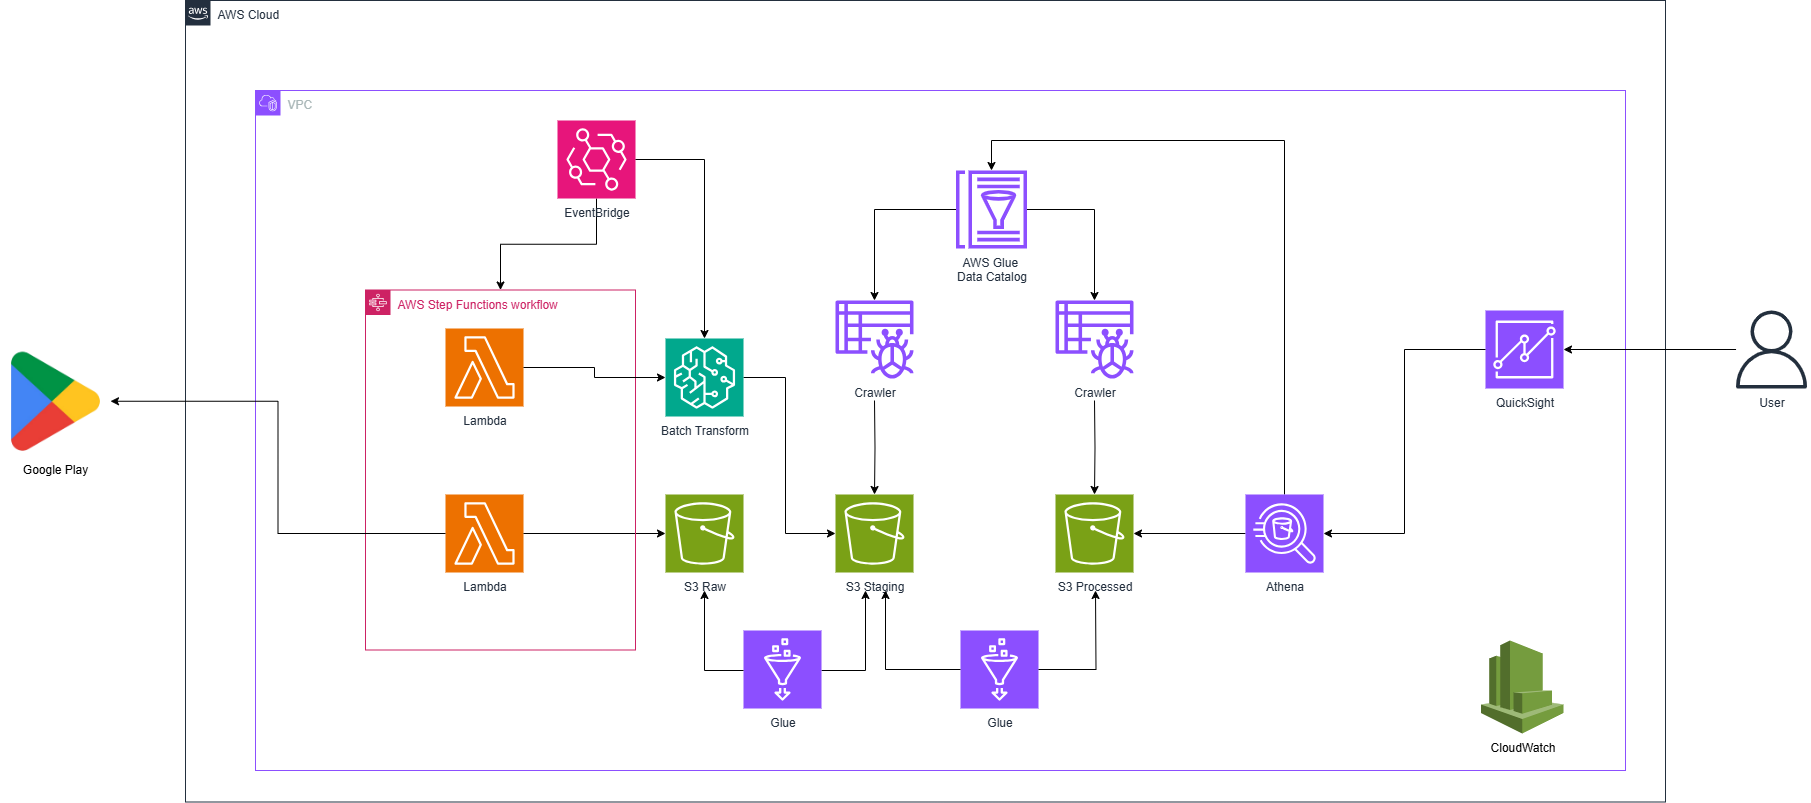
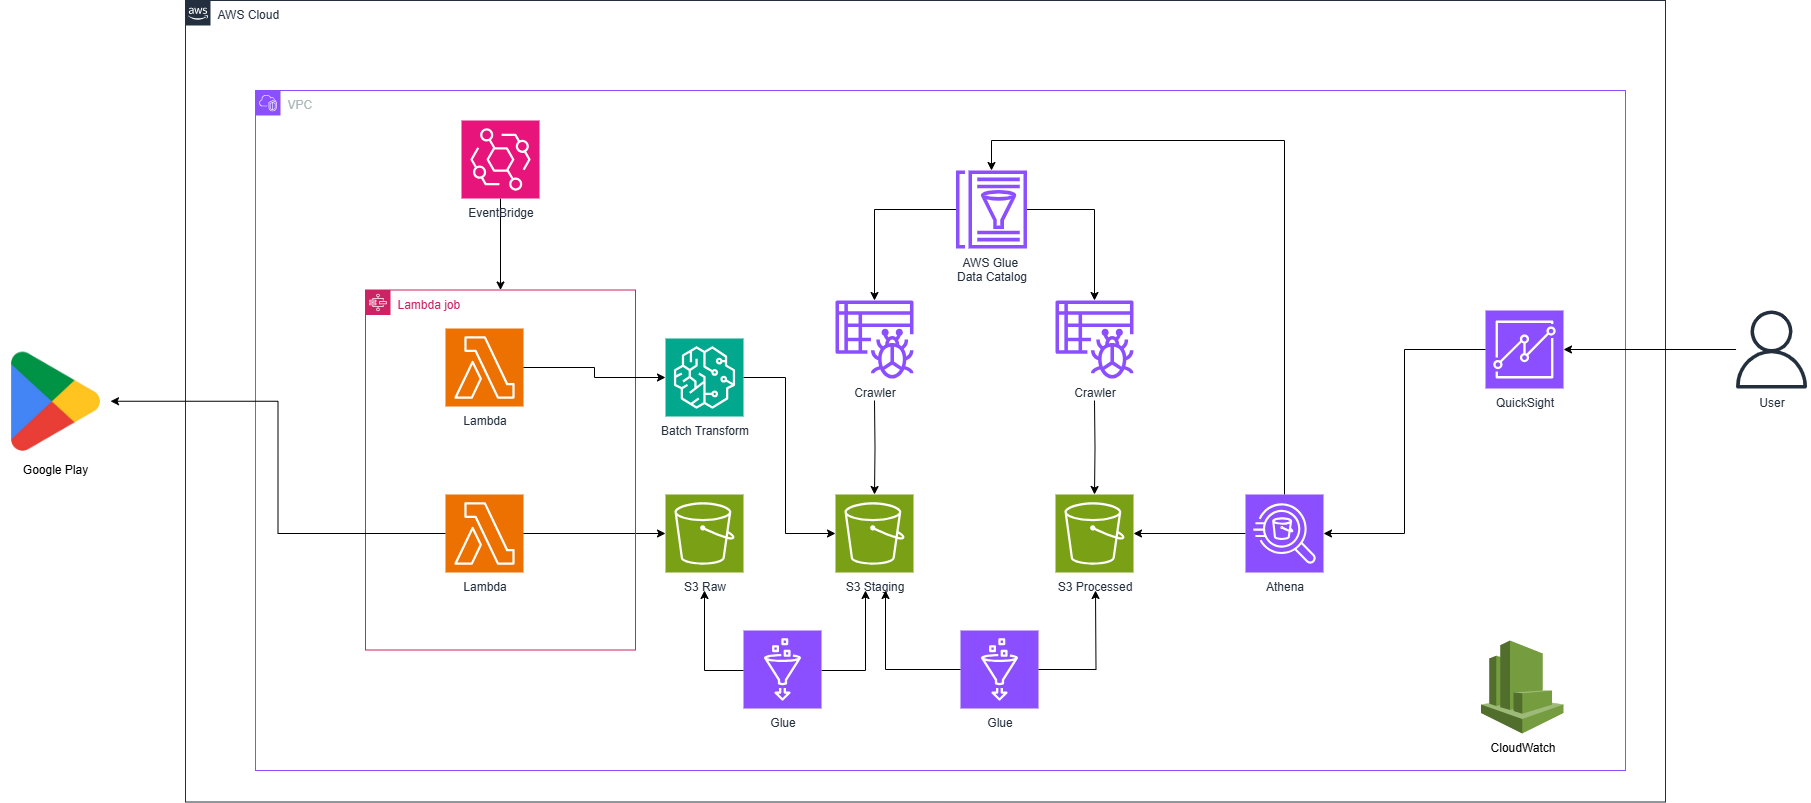
add

Changed region(s): [[0.2474, 0.1245, 0.3711, 0.2802], [0.2165, 0.3736, 0.3092, 0.4047]]

diff --git a/content/4-/4.4/_index.md b/content/4-/4.4/_index.md
@@ -1,5 +1,5 @@
 ---
-title : "Tạo job Step Function và EventBridge"
+title : "Lập lịch chạy định kỳ với EventBridge"
 date :  "2025-09-11" 
 weight : 4
 chapter : false
@@ -7,11 +7,111 @@ pre : " <b> 4.4 </b> "
 ---
 
 
-
-### Tạo job Step Function và EventBridge
+### Lập lịch chạy định kỳ với EventBridge
 
 Mọi thứ xong xuôi, tuy nhiên dữ liệu chỉ đến thời điểm hiện tại. Để hệ thống hoạt động và xử lý liên tục và luôn cập nhập dữ liệu mới nhất, ta cần các service để lập lịch và kích hoạt
 
+#### Với app_details
+
+1. Truy cập EventBridge
+
+
+![Create VPC](/images/4/1.png?featherlight=false&width=90pc)
+
+2. Chọn **Schema**
+- Chọn **Create Schema**
+
+![Create VPC](/images/4/2.png?featherlight=false&width=90pc)
+
+3. Điền các thông tin:
+- Schedule name: ```daily_chplay_app_details``
+
+![Create VPC](/images/4/3.png?featherlight=false&width=90pc)
+
+4. Set Cron time
+- Chọn **Cron-based schedule**
+- Chọn ```0 6 * * *```: chạy lúc 6h mỗi ngày
+- Tại **Flexible time window** chọn **off**
+- Chọn Next
+
+![Create VPC](/images/4/4.png?featherlight=false&width=90pc)
+
+Chú ý: **Flexible time window** là thời gian trẻ khi chạy job, nếu chọn 5p thì thời gian chạy job sẽ +5p nữa mới bắt đầu
+
+5. Phần **Select target**:
+- Chọn **AWS Lambda**
+- Chọn Lambda function ```crawl-app-details-maket-chplay```
+
+![Create VPC](/images/4/5.png?featherlight=false&width=90pc)
+
+6. Chọn **Next**
+
+![Create VPC](/images/4/6.png?featherlight=false&width=90pc)
+
+7. Phần **setting** tiếp:
+- Review lại 1 lượt
+- Kéo xuống cuối
+- Chọn **Use existing role**
+- Chọn role đã tạo trước đó: ```1-role-d4jxk5zk```
+- Chọn **Next**
+![Create VPC](/images/4/7.png?featherlight=false&width=90pc)
+
+8. Review and create schedule
+- Chọn **Create schdule**
+
+![Create VPC](/images/4/0.png?featherlight=false&width=90pc)
 
 
 
+#### Với app_reviews
+
+1. Phần detail
+- Schedule name: ```weekly_chplay_app_reviews```
+- Chọn **Recurring schedule**
+
+![Create VPC](/images/4/8.png?featherlight=false&width=90pc)
+
+2. Set Cron time
+- Chọn **Cron-based schedule**
+- Chọn ```15 6 */7 * *```: chạy lúc 6h15 ngày t8 mỗi tuần
+- Tại **Flexible time window** chọn **off**
+- Chọn Next
+
+![Create VPC](/images/4/9.png?featherlight=false&width=90pc)
+
+3. Phần **Select target**:
+- Chọn **AWS Lambda**
+- Chọn Lambda function ```crawl-review-maket-chplay``` 
+
+![Create VPC](/images/4/10.png?featherlight=false&width=90pc)
+
+4. Chọn **Next**
+
+![Create VPC](/images/4/11.png?featherlight=false&width=90pc)
+
+5. Phần **setting** tiếp:
+- Review lại 1 lượt
+- Kéo xuống cuối
+- Chọn **Use existing role**
+- Chọn role đã tạo trước đó: ```1-role-d4jxk5zk```
+- Chọn **Next**
+![Create VPC](/images/4/7.png?featherlight=false&width=90pc)
+
+6. Review and create schedule
+
+- Chọn **Create schdule**
+
+![Create VPC](/images/4/0.png?featherlight=false&width=90pc)
+
+
+=> Làm tương tự với job triggle lambda job xử lý từ model setiment
+
+Với EventBridge, chúng ta đã thiết lập thành công các lịch chạy định kỳ cho cả app_details và app_reviews, đồng thời có thể mở rộng tương tự cho các job khác như sentiment analysis. Việc lập lịch này giúp hệ thống:
+
+- Tự động hóa quy trình crawl dữ liệu, không cần thao tác thủ công.
+
+- Đảm bảo liên tục cập nhật dữ liệu mới nhất, duy trì tính chính xác và kịp thời.
+
+- Dễ dàng mở rộng cho nhiều tác vụ khác trong pipeline dữ liệu.
+
+Nhờ đó, toàn bộ luồng xử lý dữ liệu trở nên chủ động, ổn định và có khả năng vận hành dài hạn. Đây chính là một trong những bước quan trọng để xây dựng hệ thống phân tích dữ liệu tự động và thông minh hơn.

diff --git a/content/4-/4.2/_index.md b/content/4-/4.2/_index.md
@@ -65,7 +65,7 @@ def lambda_handler(event, context):
     today = datetime.datetime.utcnow().strftime("%Y-%m-%d")
     crawled_at = datetime.datetime.utcnow().strftime("%Y-%m-%d %H:%M:%S")
 
-    days = 120
+    days = 7
     start_date = datetime.datetime.utcnow() - datetime.timedelta(days=days)
 
     results = []
@@ -140,7 +140,9 @@ def lambda_handler(event, context):
     }
 ```
 
-=> Mỗi khi run code nó sẽ lấy dữ liệu app_details thay đổi theo từng tuần, lấy theo tuần do thông thường app sẽ ít review nếu đã release lâu ngày.
+=> Mỗi khi run code nó sẽ lấy dữ liệu app_review theo từng tuần, lấy theo tuần do thông thường app sẽ ít review nếu đã release lâu ngày.
+
+Ban đầu nên lấy dữ liệu khoảng 1 - 2 năm trở lại để tiện phân tích.
 
 
 
